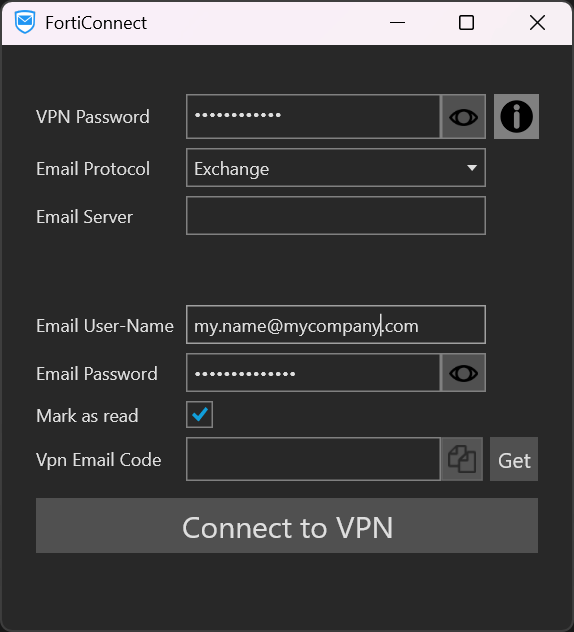
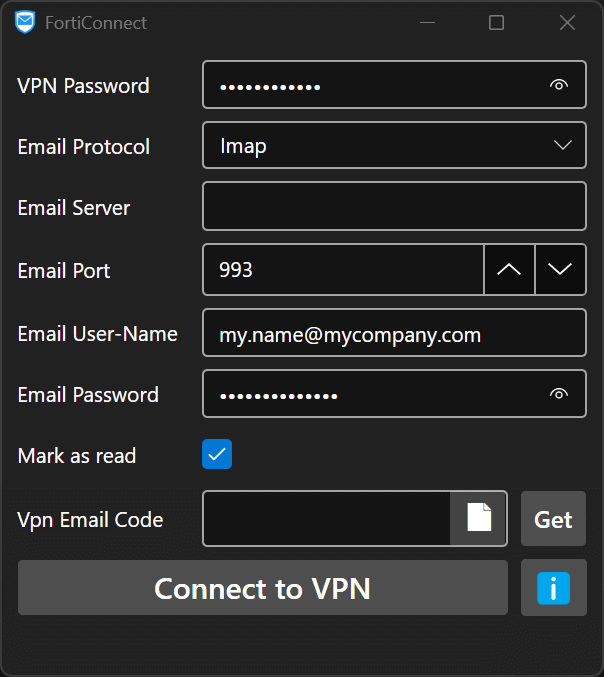
Fix styles for new avalonia fluent theme.

diff --git a/src/Views/FortiConnectForm.axaml.cs b/src/Views/FortiConnectForm.axaml.cs
@@ -9,29 +9,6 @@ public partial class FortiConnectForm : UserControl
 	{
 		this.InitializeComponent();
 		//this.OnClosing += Closing;
-		
-		var vpnPasswordTextBox = this.FindControl<TextBox>("VpnPassword");
-		var toggleShowVpnPasswordButton = this.FindControl<Button>("ToggleShowVpnPassword");
-		var vpnPasswordHiddenChar = vpnPasswordTextBox.PasswordChar;
-		toggleShowVpnPasswordButton.Click += (o, e) => {
-			var isPasswordHidden = vpnPasswordTextBox.PasswordChar == vpnPasswordHiddenChar;
-			if (isPasswordHidden)
-				vpnPasswordTextBox.PasswordChar = '\0' ;
-			else
-				vpnPasswordTextBox.PasswordChar = vpnPasswordHiddenChar;
-		};
-		
-		var emailPasswordTextBox = this.FindControl<TextBox>("EmailPassword");
-		var toggleShowEmailPasswordButton = this.FindControl<Button>("ToggleShowEmailPassword");
-		var emailPasswordHiddenChar = emailPasswordTextBox.PasswordChar;
-		toggleShowEmailPasswordButton.Click += (o, e) => {
-			var isPasswordHidden = emailPasswordTextBox.PasswordChar == emailPasswordHiddenChar;
-			if (isPasswordHidden)
-				emailPasswordTextBox.PasswordChar = '\0' ;
-			else
-				emailPasswordTextBox.PasswordChar = emailPasswordHiddenChar;
-		};
-
 		SubscribeToCapsLockEvent();
 	}
 

diff --git a/src/Views/AboutView.axaml.cs b/src/Views/AboutView.axaml.cs
@@ -1,4 +1,5 @@
-using Avalonia.Interactivity;
+using Avalonia.Input;
+using Avalonia.Interactivity;
 using Avalonia.Markup.Xaml;
 
 namespace FortiConnect.Views;
@@ -23,12 +24,29 @@ public partial class AboutView : UserControl
 		this.InitializeComponent();
 		var dataContextViewModel = viewModel ?? new AboutViewModel();
 
-		dataContextViewModel.OnCloseView.Subscribe(x => {
-			var eventArgs = new RoutedEventArgs { RoutedEvent = ExitViewEvent, Source = this};
-			this.RaiseEvent(eventArgs);
-
-			});
+		dataContextViewModel.OnCloseView.Subscribe(x => CloseDialog());
 		this.DataContext = dataContextViewModel;
+		InputElement.KeyDownEvent.AddClassHandler<TopLevel>(OnKeyDownParent, handledEventsToo: true);
+	}
+
+	public void CloseDialog()
+	{
+		var eventArgs = new RoutedEventArgs { RoutedEvent = ExitViewEvent, Source = this };
+		this.RaiseEvent(eventArgs);
+	}
+
+	protected void OnKeyDownParent(object sender, KeyEventArgs e)
+	{
+		OnKeyDown(e);
+	}
+
+	protected override void OnKeyDown(KeyEventArgs e)
+	{
+		if (e.Key == Key.Escape && this.IsVisible)
+		{
+			CloseDialog();
+			e.Handled = true;
+		}
 	}
 
 	private void InitializeComponent()

diff --git a/src/ViewModels/AboutViewModel.cs b/src/ViewModels/AboutViewModel.cs
@@ -5,7 +5,7 @@ public class AboutViewModel : ViewModelBase
 	private const string URL_LICENSE = "https://opensource.org/licenses/MIT";
 	private const string URL_GITHUB = "https://github.com/LazaroOnline/FortiConnect";
 
-	public string GitVersion   { get; set; } = GitVersionService.GetGitVersionAssemblyInfo().ToString();
+	public string GitVersion { get; set; } = GitVersionService.GetGitVersionAssemblyInfo().ToString();
 
 	public ReactiveCommand<Unit, Unit> OnOpenAboutWindow { get; }
 	public ReactiveCommand<Unit, Unit> OnCloseView { get; }

diff --git a/src/Models/GitVersionAssemblyInfo.cs b/src/Models/GitVersionAssemblyInfo.cs
@@ -21,7 +21,7 @@ public class GitVersionAssemblyInfo
 			+ $@"{nameof(ModificationDate)}: {GetModificationDate}{Environment.NewLine}"
 			+ $@"{nameof(Version)}: {Version}{Environment.NewLine}"
 			+ $@"{nameof(FileVersion)}: {FileVersion}{Environment.NewLine}"
-			+ $@"{nameof(InformationalVersion)}: {InformationalVersion}"
+			+ $@"{nameof(InformationalVersion)}: {Environment.NewLine}{InformationalVersion.Replace("--pending", $"{Environment.NewLine}pending")}" // This last line can grow a lot, split the label with a new line.
 			;
 	}
 }

diff --git a/README.md b/README.md
@@ -14,5 +14,5 @@ and email code in the FortiClient VPN application.
 - [Developer's Guide](/docs/DevelopersGuide.md)
 
 
-![FortiConnect-UI](DOCS/IMAGES/FortiConnect-UI.png)  
+![FortiConnect-UI](docs/images/FortiConnect-UI.png)  
 
